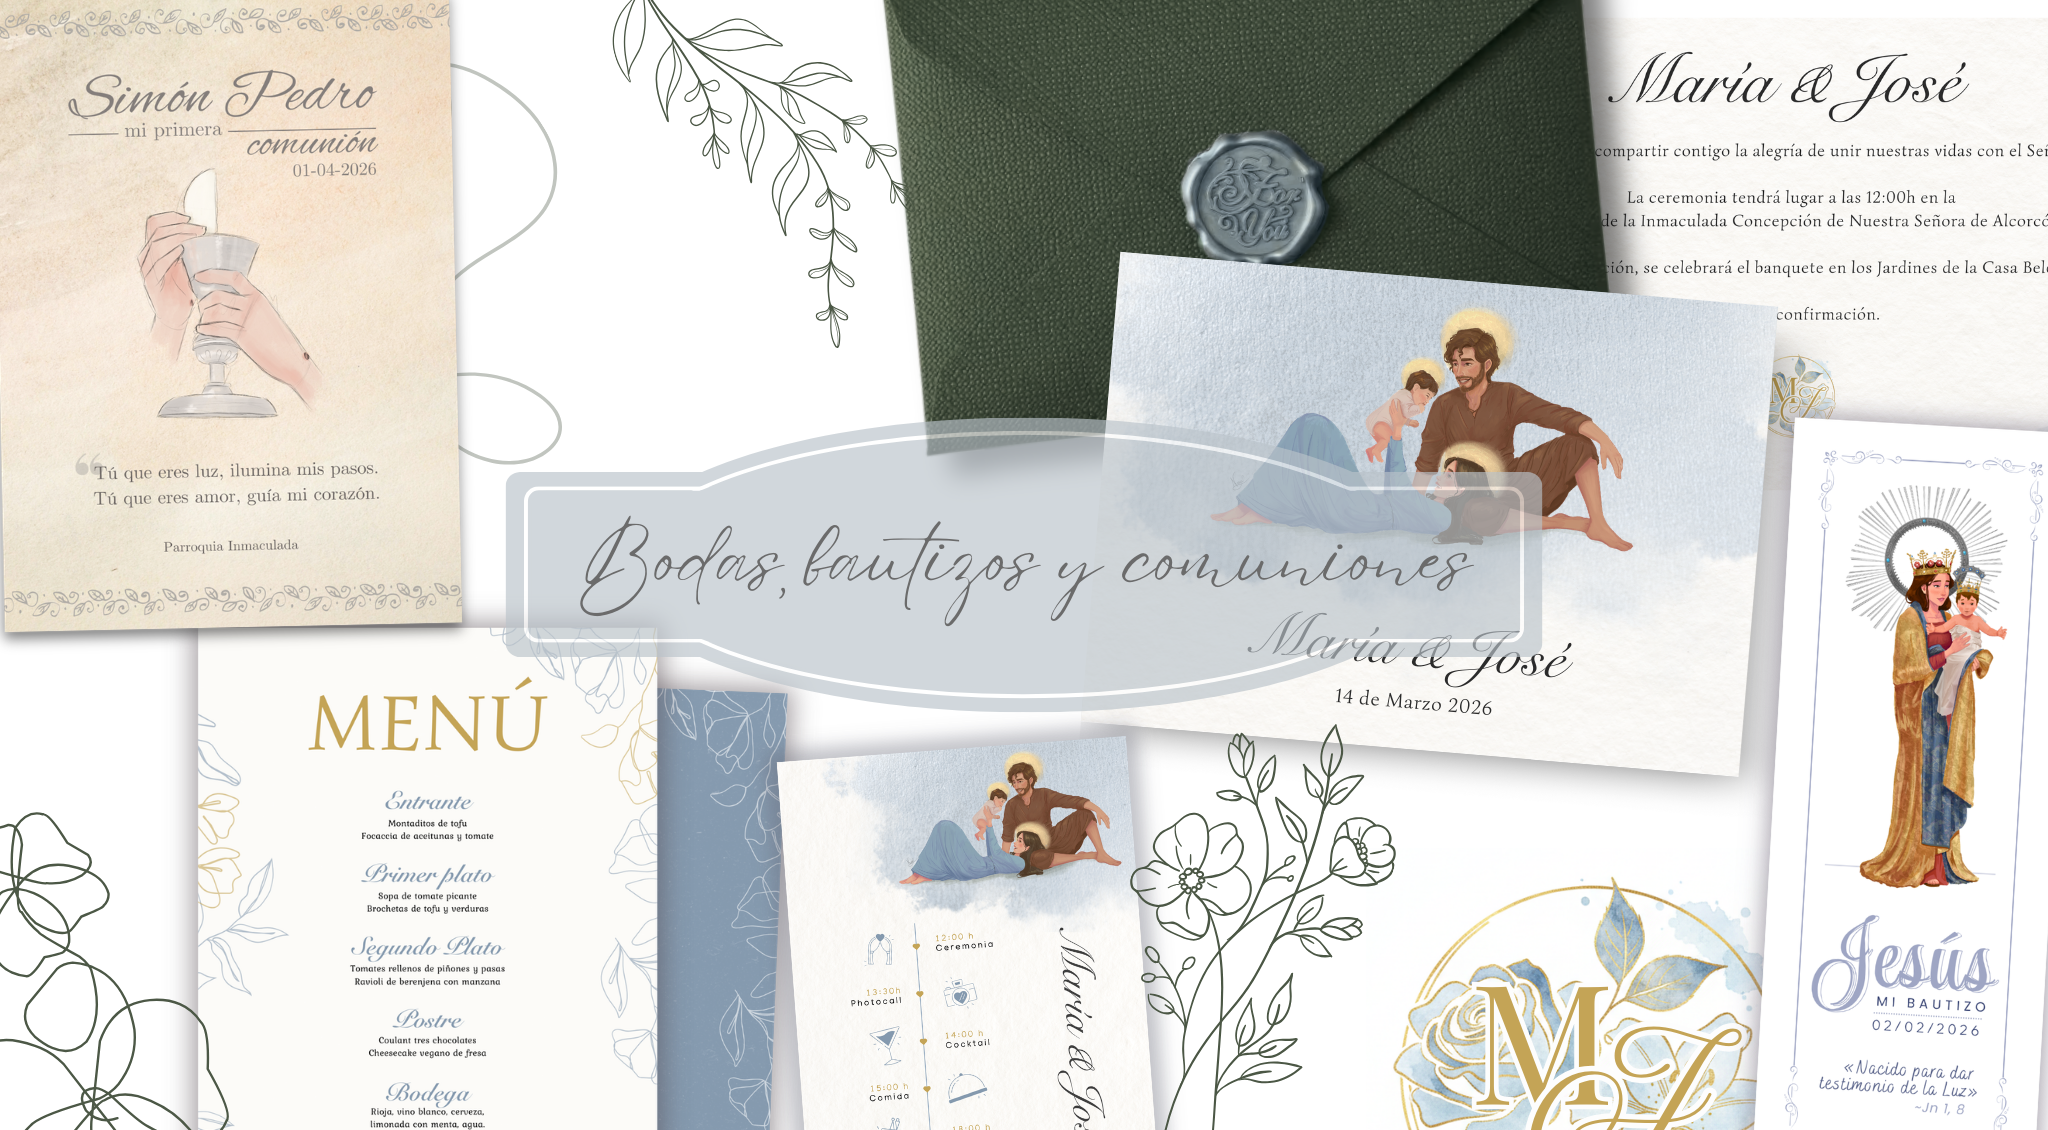
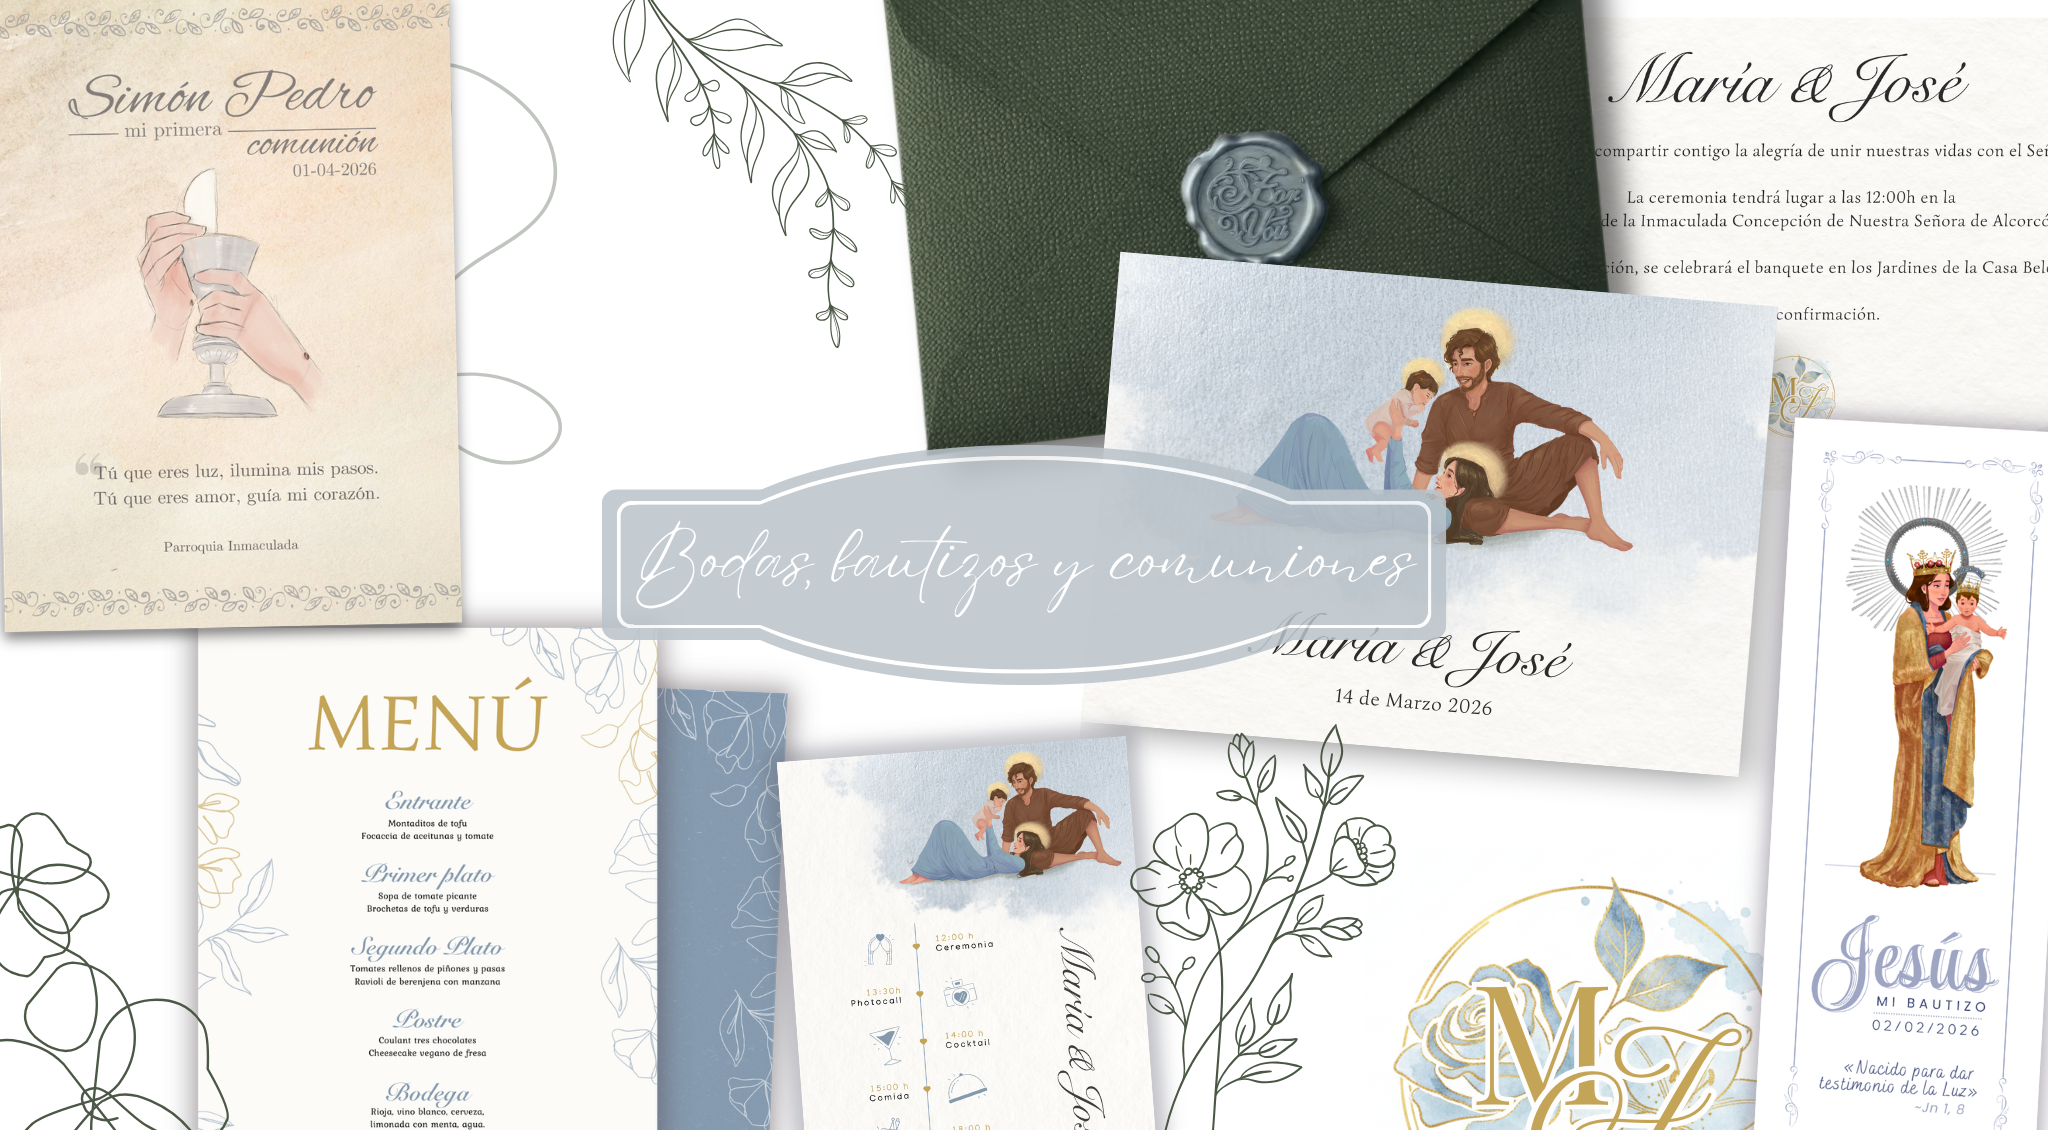
bg fixed

Changed region(s): [[0.25, 0.3717, 0.75, 0.6504]]

diff --git a/encargos.html b/encargos.html
@@ -32,6 +32,16 @@
       <script src="https://oss.maxcdn.com/html5shiv/3.7.3/html5shiv.min.js"></script>
       <script src="https://oss.maxcdn.com/respond/1.4.2/respond.min.js"></script><![endif]-->
    </head>
+   <style>
+      @media only screen and (max-width: 480px) {
+        .banner_main img{
+          content: url(/images/encargos_vMobile.png);
+          object-position: 50%;
+        }
+        
+      }
+
+   </style>
 <body class="main-layout">
   <!-- end loader -->
   <nav class="navbar navbar-expand-lg menuBar">
@@ -47,7 +57,7 @@
                      <li class="nav-item"><a class="fixed-bar nav-link" style="color: #000;" onclick="window.open('./portfolio.pdf');">PORTFOLIO</a></li>
                      <li class="nav-item"><div class="fixed-bar nav-link p-0"><button onclick="window.location.replace('index.html')" style="background:transparent;border:none;"><img src="images/avatar.png" alt="#"></button></div></li>
                      <li class="nav-item"><a class="fixed-bar nav-link" href="fines.html">FINES SOLIDARIOS</a></li>
-                     <li class="nav-item"><a class="fixed-bar nav-link" href="#customer">NEREDIARTE</a></li>
+                     <li class="nav-item"><a class="fixed-bar nav-link" href="nerediarte.html">NEREDIARTE</a></li>
           </ul>
         </div>
     </div>

diff --git a/index.html b/index.html
@@ -35,13 +35,15 @@
    <style> 
       /*<!-- elementos que solo están en este index-->*/
       @media only screen and (max-width: 480px){
-         .banner_main img {
+         .banner_main .mobilee {
+            content: url(/images/main_vMobile.png);
             object-position: 85%;
          }
+         
          .portfolio_btn{
-            margin-left:0;
-            top: 10% !important;
-            transform: scale(50%) !important;
+            margin-left:-40px;
+            top: 52% !important;
+            transform: scale(44%) !important;
             background-color: #ffffff9a !important;
             border-radius: 25%;
          }
@@ -133,7 +135,7 @@
          <div id="content">
             <section class="slider_section">
                <div class="banner_main position-relative w-100" style="overflow:hidden;">
-                  <img src="images/main.png" alt="#" class="img-fluid w-100"/>
+                  <img src="images/main.png" alt="#" class="img-fluid w-100 mobilee"/>
                   <button onclick="window.open('./portfolio.pdf');" class="portfolio_btn"><img src="images/portfolio_button.png" style="width:100%;height:auto;"></button>
                   <!--div class="container-fluid padding3">
                      <div class="row">

diff --git a/nerediarte.html b/nerediarte.html
@@ -63,7 +63,8 @@
         /* MOBILE */
         @media only screen and (max-width: 480px){
             .banner_main img {
-                object-position: 10%;
+                content: url(/images/aboutme_vMobile.png);
+              object-position: 43%;
             }
             .core span{
                 display: flex !important;
